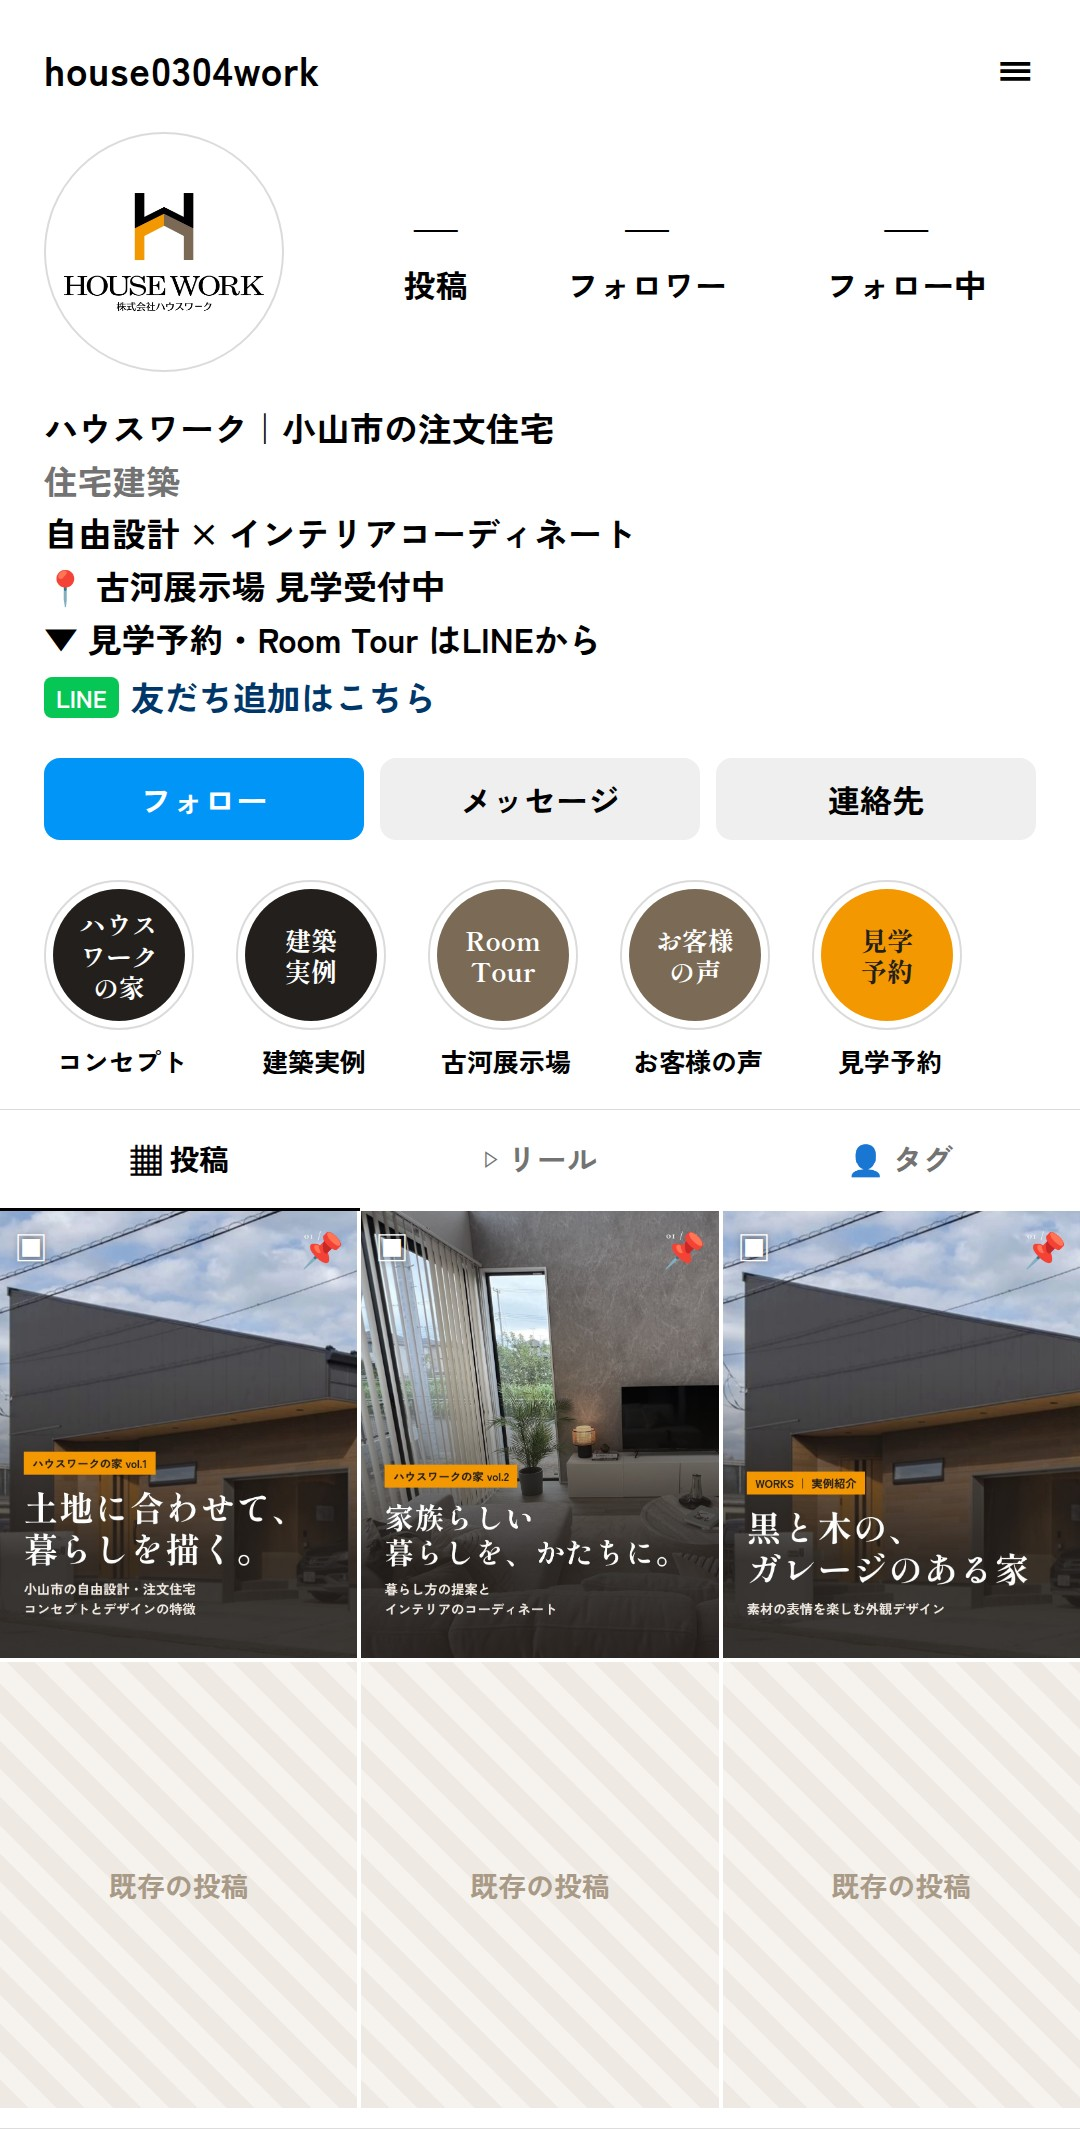
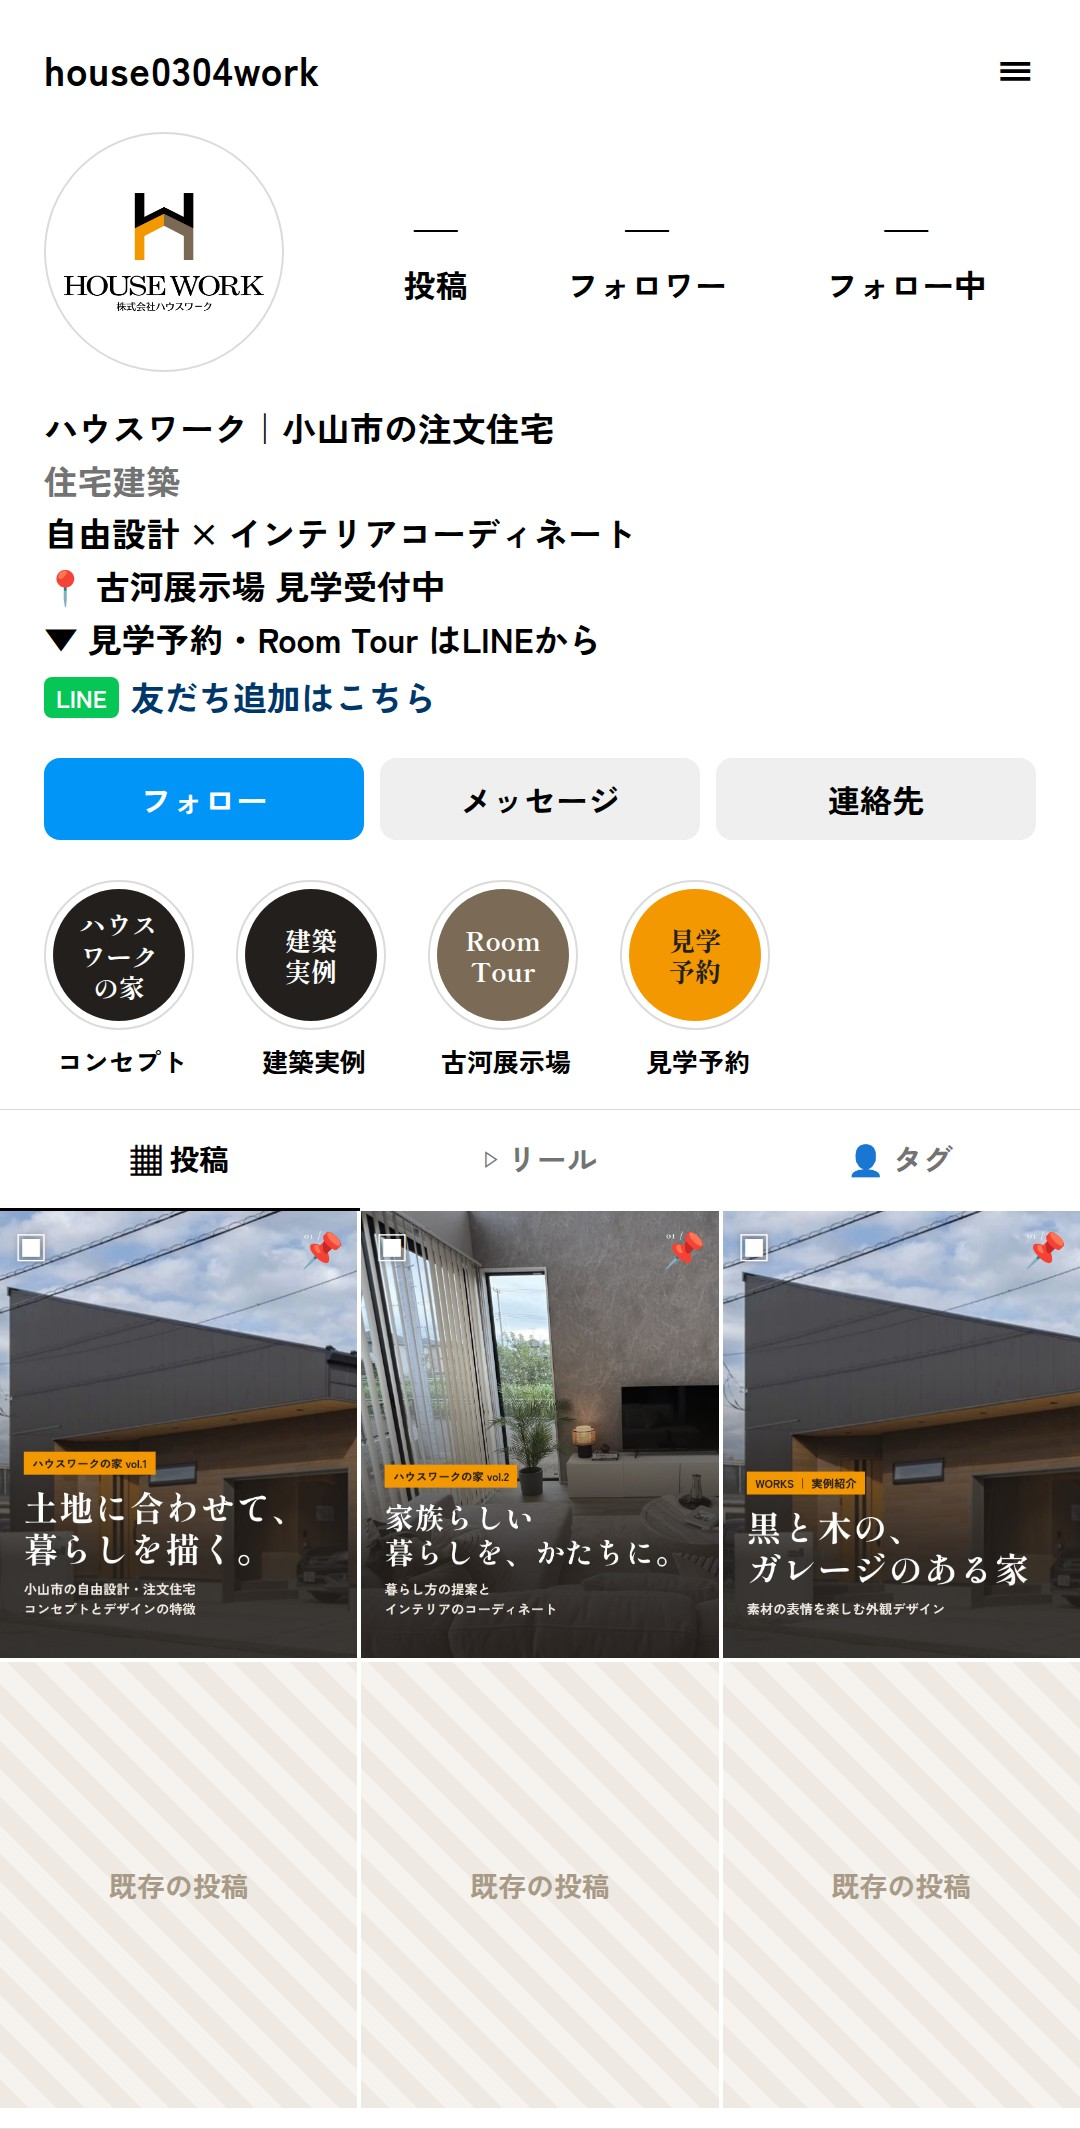
Reduce Instagram highlights to four (drop customer voice)
Claude-Session: https://claude.ai/code/session_012B9C5ZEN3wmcNpkXGGwKaW

Changed region(s): [[0.7333, 0.403, 0.8861, 0.527], [0.5806, 0.403, 0.7028, 0.527]]

diff --git a/instagram/profile.html b/instagram/profile.html
@@ -61,12 +61,11 @@
   </div>
   <div class="btns"><div class="main">フォロー</div><div>メッセージ</div><div>連絡先</div></div>
 
-  <!-- ハイライト：LINEリッチメニューと同じ並び -->
+  <!-- ハイライト（4つ）：LINEリッチメニューの内容に合わせる -->
   <div class="hl">
     <div><div class="ring"><span style="background:#231F1C">ハウス<br>ワーク<br>の家</span></div>コンセプト</div>
     <div><div class="ring"><span style="background:#231F1C">建築<br>実例</span></div>建築実例</div>
     <div><div class="ring"><span style="background:#7B6A56">Room<br>Tour</span></div>古河展示場</div>
-    <div><div class="ring"><span style="background:#7B6A56">お客様<br>の声</span></div>お客様の声</div>
     <div><div class="ring"><span style="background:#F39800;color:#231F1C">見学<br>予約</span></div>見学予約</div>
   </div>
 
